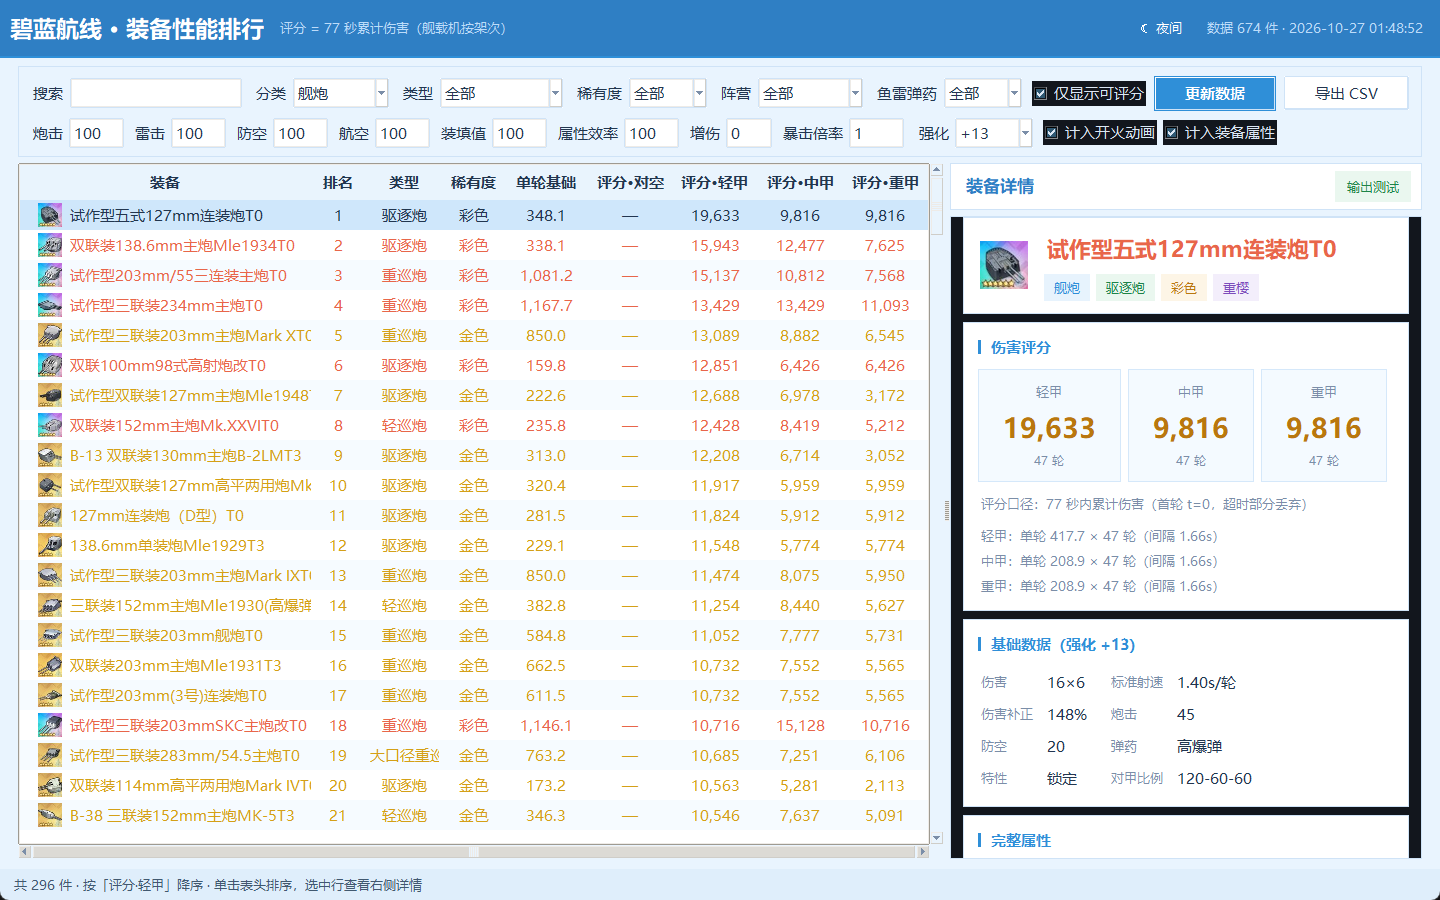
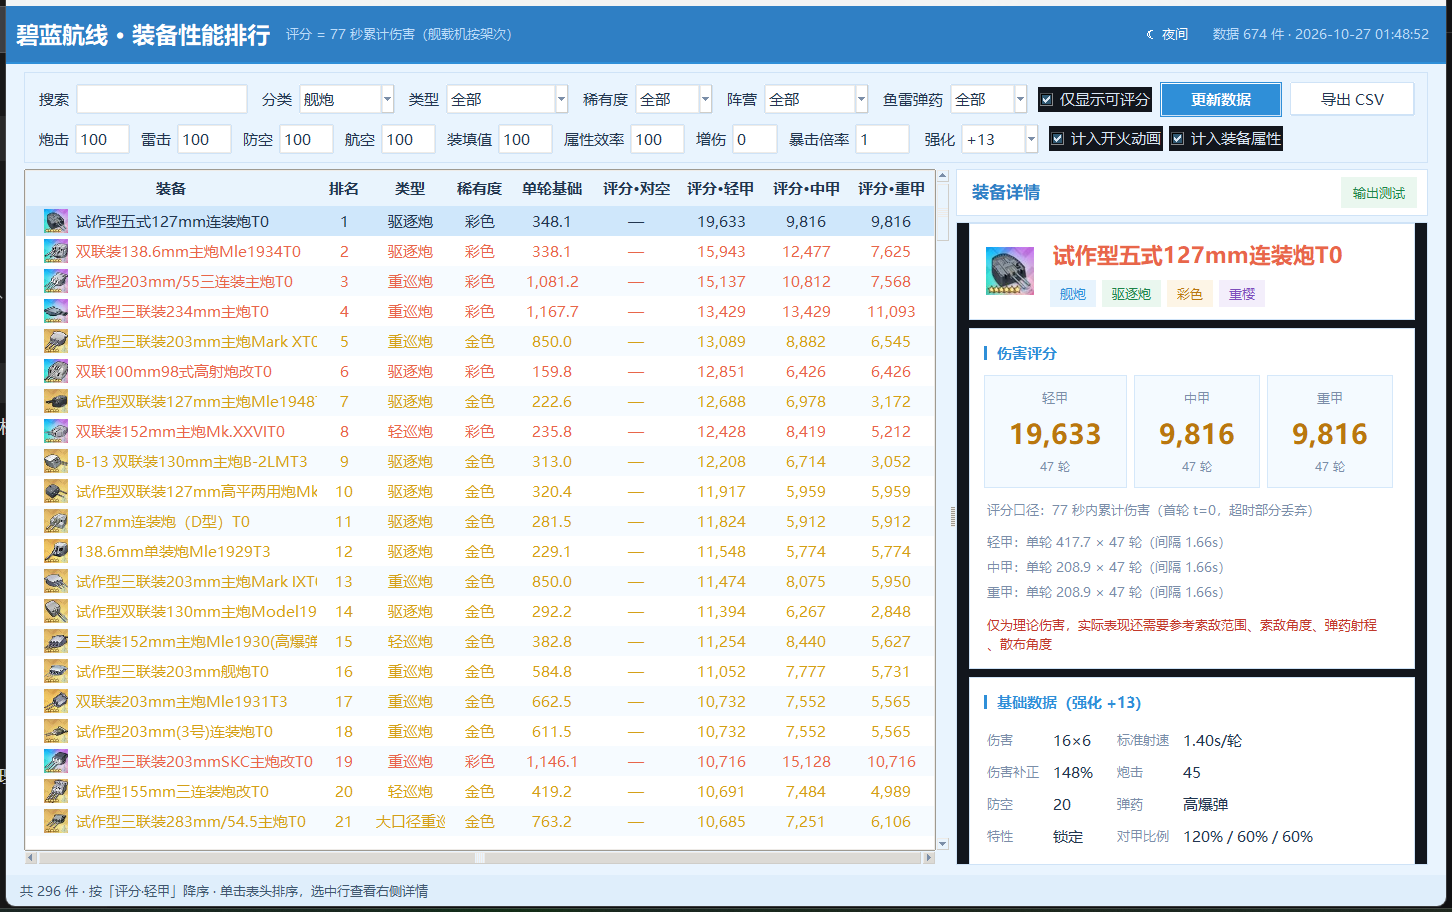
docs: 重截 README 截图（含理论伤害提示与对甲比例百分比）
新增 tools/shot_readme.py：显式指定主题、按窗口物理矩形裁剪。
坑：PrintWindow 抓 Canvas 自绘区域会发黑，改用 ImageGrab；
且脚本必须自己声明 DPI 感知，否则 GetWindowRect 与 ImageGrab 坐标系不一致，截图整体错位。

Changed region(s): [[0.0, 0.0, 1.0, 1.0]]

diff --git a/tools/shot_readme.py b/tools/shot_readme.py
@@ -1,0 +1,59 @@
+"""生成 README 用的截图（白天 / 夜间）。
+
+PrintWindow 抓 Canvas 自绘区域会发黑，所以改用全屏 ImageGrab + 按窗口的
+物理像素矩形裁剪，并去掉标题栏。
+
+用法: python tools/shot_readme.py
+输出: assets/preview.png、assets/preview_night.png
+"""
+import ctypes
+import os
+import sys
+import time
+from ctypes import wintypes
+
+sys.path.insert(0, r"G:\azur lane")
+
+# 必须先声明 DPI 感知：否则 GetWindowRect 返回逻辑坐标，和 ImageGrab 的物理像素对不上，
+# 截出来的图会整体错位
+try:
+    ctypes.windll.shcore.SetProcessDpiAwareness(1)
+except Exception:  # noqa: BLE001
+    pass
+
+from PIL import ImageGrab  # noqa: E402
+
+from app.ui import App  # noqa: E402
+
+user32 = ctypes.windll.user32
+
+
+def shoot(category: str, theme: str, out: str):
+    app = App()
+    app.theme_key = theme
+    app._apply_theme()
+    app.var_cat.set(category)
+    app._sync_types()
+    app.refresh()
+    app.update()
+    app.update_idletasks()
+    time.sleep(1.0)
+    app.update()
+    time.sleep(0.5)
+
+    hwnd = int(app.wm_frame(), 16)
+    rect = wintypes.RECT()
+    user32.GetWindowRect(hwnd, ctypes.byref(rect))
+    img = ImageGrab.grab(bbox=(rect.left, rect.top, rect.right, rect.bottom))
+    # 去掉标题栏（约 32px）和窗口边框的 3px 毛边
+    top, inset = 32, 3
+    if img.height > top + 100:
+        img = img.crop((inset, top, img.width - inset, img.height - inset))
+    img.save(out)
+    print("saved", out, img.size)
+    app.destroy()
+
+
+shoot("舰炮", "day", r"G:\azur lane\assets\preview.png")
+time.sleep(0.5)
+shoot("舰载机", "night", r"G:\azur lane\assets\preview_night.png")
